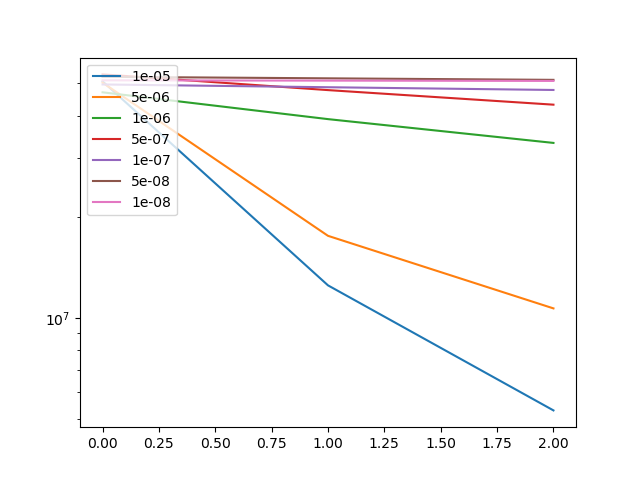
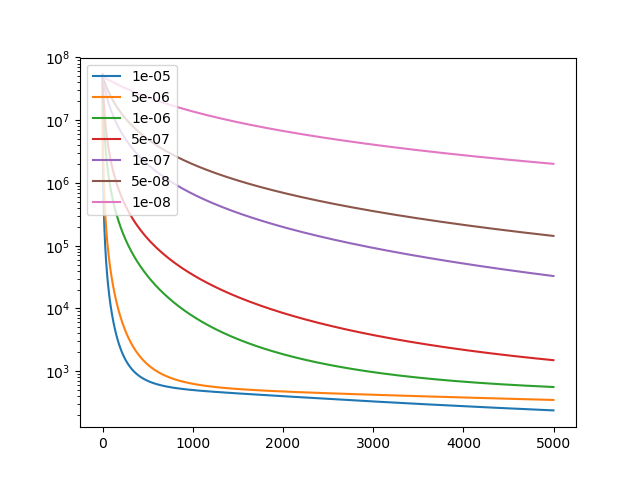
Loss

diff --git a/dynamics/autograd.py b/dynamics/autograd.py
@@ -15,10 +15,10 @@ y_size, x_size, mid_dim = 100, 100, 100
 
 learning_rate_list = [1e-5, 5e-6, 1e-6, 5e-7, 1e-7, 5e-8, 1e-8]
 
-epoch = int(3)
+epoch = int(5E3)
 x_axis = list(range(epoch))
 
-loss_dict, condition_number_dict, max_allowed_learning_rate_dict = {}, {}, {}
+loss_dict, condition_number_dict, max_allowed_learning_rate_dict, equivalent_weight_dict = {}, {}, {}, {}
 
 for learning_rate in learning_rate_list:
 	# Create random input and output data
@@ -49,6 +49,7 @@ for learning_rate in learning_rate_list:
 	# learning_rate = 1.8e-5
 
 	loss_list = []
+	equivalent_weight_list = []
 	max_allowed_learning_rate_list = []
 	condition_number_list = []
 
@@ -67,18 +68,20 @@ for learning_rate in learning_rate_list:
 
 		equivalent_weight = (w2).mm(w1)
 
-		weight_squared = equivalent_weight.t().mm(equivalent_weight)
+		equivalent_weight_list.append(equivalent_weight)
 
-		_ , S, _ = torch.svd(equivalent_weight, False, False)
+		# weight_squared = equivalent_weight.t().mm(equivalent_weight)
 
-		_ , S_squared, _ = torch.svd(weight_squared, False, False)
+		# _ , S, _ = torch.svd(equivalent_weight, False, False)
 
-		max_allowed_learning_rate = 1 / S_squared[0]
+		# _ , S_squared, _ = torch.svd(weight_squared, False, False)
 
-		condition_number = S[0] / S[-1]
+		# max_allowed_learning_rate = 1 / S_squared[0]
+
+		# condition_number = S[0] / S[-1]
 		
-		condition_number_list.append(condition_number)
-		max_allowed_learning_rate_list.append(max_allowed_learning_rate)
+		# condition_number_list.append(condition_number)
+		# max_allowed_learning_rate_list.append(max_allowed_learning_rate)
 
 		# print ("condition_number = ",condition_number)
 
@@ -109,10 +112,10 @@ for learning_rate in learning_rate_list:
 		# You can also use torch.optim.SGD to achieve this.
 		with torch.no_grad():
 			w1_update = learning_rate * w1.grad
-			w1_update_scale = torch.norm(w1_update)
+			# w1_update_scale = torch.norm(w1_update)
 			w2_update = learning_rate * w2.grad
-			w2_update_scale = torch.norm(w2_update)
-			w1_scale, w2_scale = torch.norm(w1), torch.norm(w2)
+			# w2_update_scale = torch.norm(w2_update)
+			# w1_scale, w2_scale = torch.norm(w1), torch.norm(w2)
 			# if t % 100 == 99:
 			# 	print ("W1 ratio = ",w1_update_scale / w1_scale)
 			# 	print ("W2 ratio = ",w2_update_scale / w1_scale)
@@ -124,8 +127,8 @@ for learning_rate in learning_rate_list:
 			w2.grad.zero_()
 
 	loss_dict[learning_rate] = loss_list
-	condition_number_dict[learning_rate] = condition_number_list
-	max_allowed_learning_rate_dict[learning_rate] = max_allowed_learning_rate_list
+	# condition_number_dict[learning_rate] = condition_number_list
+	# max_allowed_learning_rate_dict[learning_rate] = max_allowed_learning_rate_list
 
 
 	# plt.plot(x_axis,loss_list, label='loss')
@@ -158,20 +161,20 @@ plt.yscale('log')
 plt.savefig('./graph/autograd_loss')
 plt.close()
 
-for key in condition_number_dict:
-	plt.plot(x_axis,condition_number_dict[key], label=str(key))
+# for key in condition_number_dict:
+# 	plt.plot(x_axis,condition_number_dict[key], label=str(key))
 
-plt.legend(loc='upper left')
-plt.yscale('log')
-plt.savefig('./graph/autograd_condition_number')
-plt.close()
+# plt.legend(loc='upper left')
+# plt.yscale('log')
+# plt.savefig('./graph/autograd_condition_number')
+# plt.close()
 
-for key in max_allowed_learning_rate_dict:
-	plt.plot(x_axis,max_allowed_learning_rate_dict[key], label=str(key))
+# for key in max_allowed_learning_rate_dict:
+# 	plt.plot(x_axis,max_allowed_learning_rate_dict[key], label=str(key))
 
-plt.legend(loc='upper left')
-plt.yscale('log')
-plt.savefig('./graph/autograd_max_learningRate')
-plt.close()
+# plt.legend(loc='upper left')
+# plt.yscale('log')
+# plt.savefig('./graph/autograd_max_learningRate')
+# plt.close()
 
 
